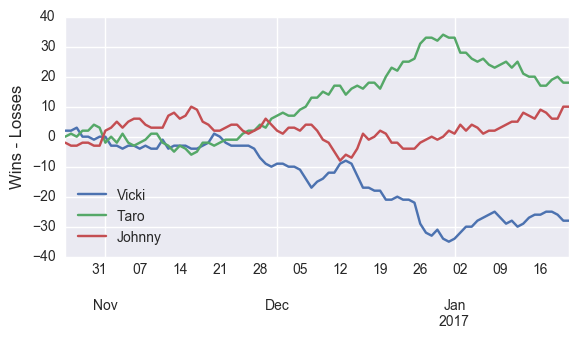
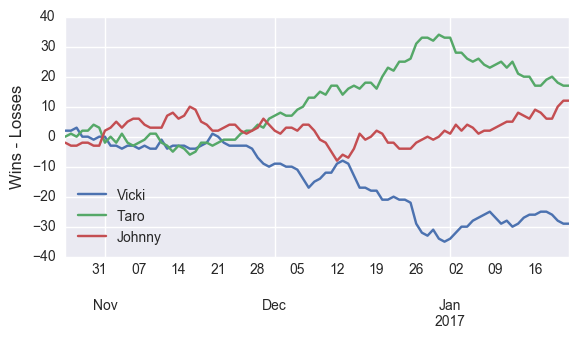
update 1/22

diff --git a/index.html b/index.html
@@ -35,7 +35,7 @@
 <a id="the-bet-is-on" class="anchor" href="#the-bet-is-on" aria-hidden="true"><span aria-hidden="true" class="octicon octicon-link"></span></a>The bet is on.</h1>
 
 <h1>
-<a id="current-winner-of-2016-17-season" class="anchor" href="#current-winner-of-2016-17-season" aria-hidden="true"><span aria-hidden="true" class="octicon octicon-link"></span></a>Current winner of 2016-17 Season (as of 1/21/2017):</h1>
+<a id="current-winner-of-2016-17-season" class="anchor" href="#current-winner-of-2016-17-season" aria-hidden="true"><span aria-hidden="true" class="octicon octicon-link"></span></a>Current winner of 2016-17 Season (as of 1/22/2017):</h1>
 
 <h2>
 <a id="none" class="anchor" href="#none" aria-hidden="true"><span aria-hidden="true" class="octicon octicon-link"></span></a><strong>Taro</strong>
@@ -44,22 +44,22 @@
 <h2>
 <a id="johnny" class="anchor" href="#johnny" aria-hidden="true"><span aria-hidden="true" class="octicon octicon-link"></span></a>Johnny</h2>
 
-<p>Wins: 222<br>
-Losses: 212<br>
+<p>Wins: 226<br>
+Losses: 214<br>
 Remaining wins available: 325</p>
 
 <h2>
 <a id="taro" class="anchor" href="#taro" aria-hidden="true"><span aria-hidden="true" class="octicon octicon-link"></span></a>Taro</h2>
 
-<p>Wins: 225<br>
-Losses: 207<br>
+<p>Wins: 228<br>
+Losses: 211<br>
 Remaining wins available: 323</p>
 
 <h2>
 <a id="vicki" class="anchor" href="#vicki" aria-hidden="true"><span aria-hidden="true" class="octicon octicon-link"></span></a>Vicki</h2>
 
-<p>Wins: 201<br>
-Losses: 229<br>
+<p>Wins: 205<br>
+Losses: 234<br>
 Remaining wins available: 326</p>
 
 <img src='pythoncode/win_percent.png' alt='Winning Percentage Over Time'>
